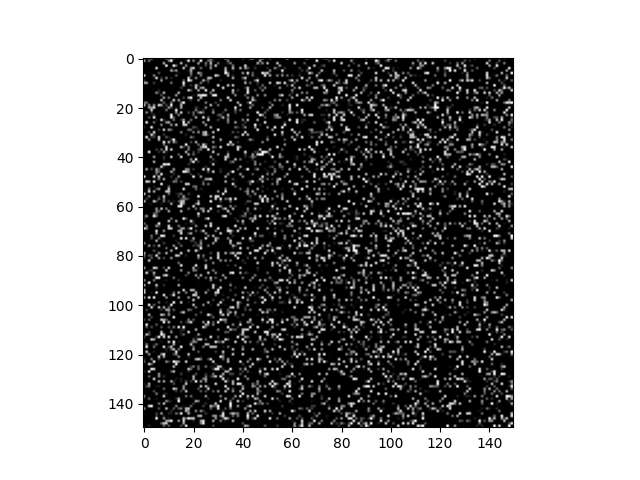
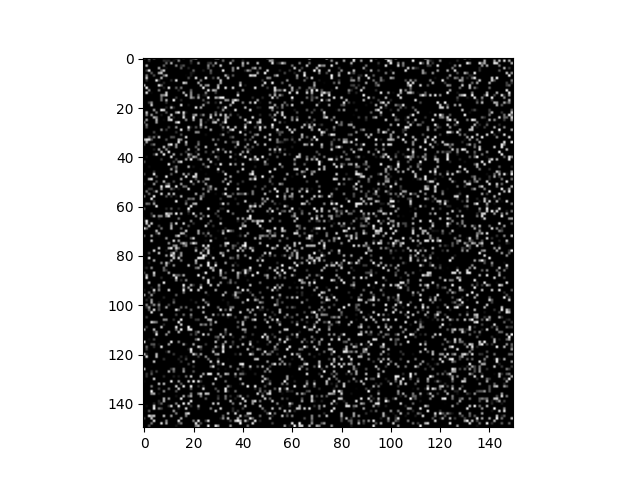
code for perlin noise

Changed region(s): [[0.2188, 0.125, 0.8125, 0.9062]]

diff --git a/cifar10/util/random_densities.py b/cifar10/util/random_densities.py
@@ -2,6 +2,7 @@ import random
 import torch
 import numpy as np
 from noise import pnoise2
+from perlin_noise import PerlinNoise
 
 
 def random_densities(shape):
@@ -17,50 +18,26 @@ def random_densities(shape):
     return base_tensor
 
 
-def generate_perlin_noise_2d(shape, scale=100.0, octaves=1, persistence=0.5, lacunarity=2.0, base=0):
-    """
-    Generate a 2D NumPy array filled with Perlin noise.
+def generate_perlin_noise_2d(shape):
+    width, height = shape
 
-    Args:
-        shape: Tuple (height, width) for the output array shape.
-        scale: Controls the "zoom" level of the noise.
-        octaves: Number of layers of noise to combine.
-        persistence: Amplitude decrease per octave.
-        lacunarity: Frequency increase per octave.
-        base: Base offset for noise generation.
+    noise = PerlinNoise(octaves=3)
+    noise_array = np.array([[noise([i/width, j/height]) for j in range(width)] for i in range(height)])
 
-    Returns:
-        A NumPy array of shape `shape` filled with Perlin noise values.
-    """
-    height, width = shape
-    noise_array = np.zeros((height, width))
-
-    for i in range(height):
-        for j in range(width):
-            x = j / scale
-            y = i / scale
-            noise_val = pnoise2(
-                x, y,
-                octaves=octaves,
-                persistence=persistence,
-                lacunarity=lacunarity,
-                repeatx=width,
-                repeaty=height,
-                base=base
-            )
-            noise_array[i][j] = noise_val
-
-    return noise_array
+    normalized_noise = (noise_array + 1) / 2
+    return normalized_noise
 
 
 if __name__ == '__main__':
     import matplotlib.pyplot as plt
 
-    densities = random_densities((150, 150))
+    shape = (150, 150)
+
+    densities = random_densities(shape)
     plt.imshow(densities, cmap='gray')
     plt.savefig('../images/densities.png')
 
-    noise = generate_perlin_noise_2d((150, 150))
+    noise = generate_perlin_noise_2d(shape)
     plt.imshow(noise, cmap='gray')
     plt.savefig('../images/noise.png')
 

diff --git a/cifar10/generate_data.py b/cifar10/generate_data.py
@@ -2,11 +2,12 @@ import json
 
 from cifar10.util.train import train_cifar
 from cifar10.util.load_cifar import load_cifar
-from cifar10.util.random_densities import random_densities
+from cifar10.util.random_densities import random_densities, generate_perlin_noise_2d
 
 
 data_folder = "../data"
-output_file = "./train_data.txt"
+# output_file = "./train_data.txt"
+output_file = "./perlin_data.txt"
 
 train_loader, test_loader = load_cifar(data_folder, batch_size=128, shuffle=False)
 
@@ -19,7 +20,8 @@ num_iterations = 4
 
 
 for _ in range(999):
-    densities = random_densities()
+    # densities = random_densities((num_blocks, num_blocks))
+    densities = generate_perlin_noise_2d((num_blocks, num_blocks))
 
     train_loss, test_loss = train_cifar(
         input_sizes, hidden_sizes, output_sizes,
